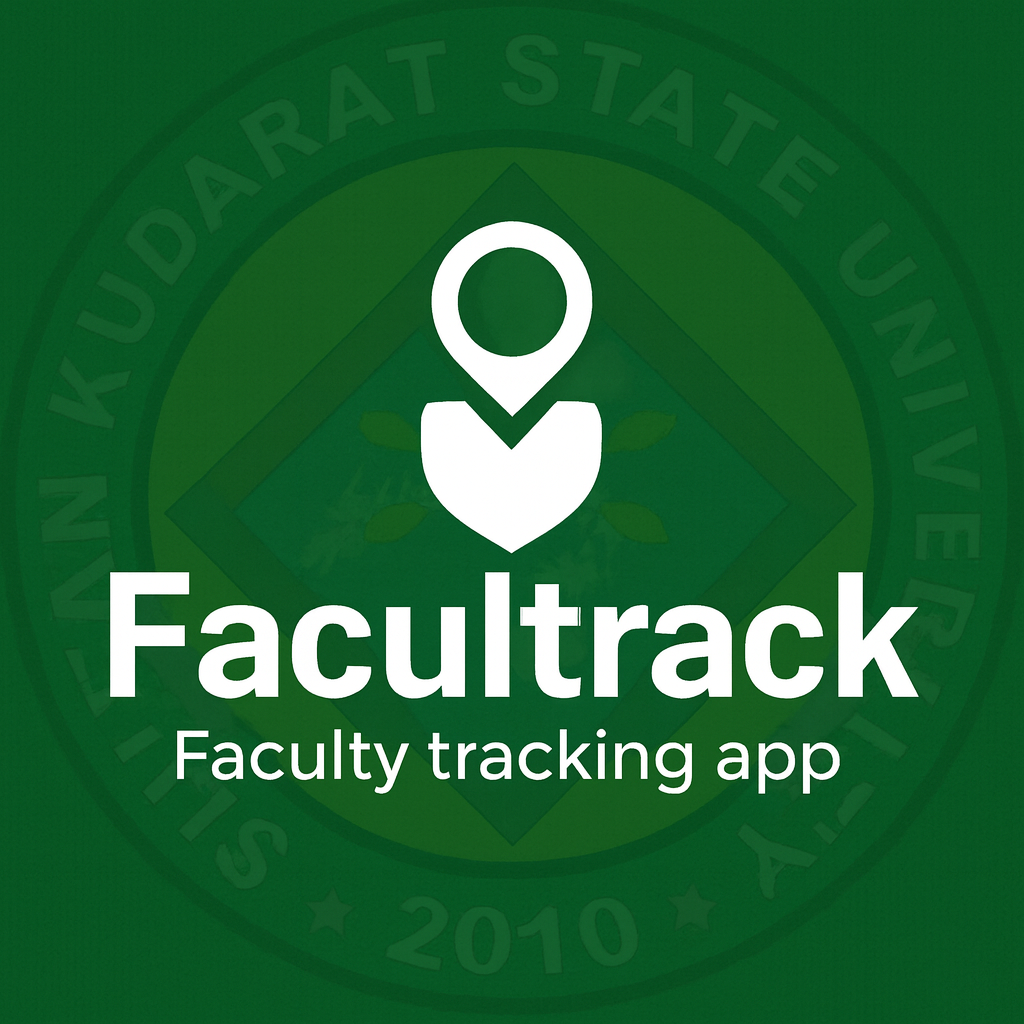
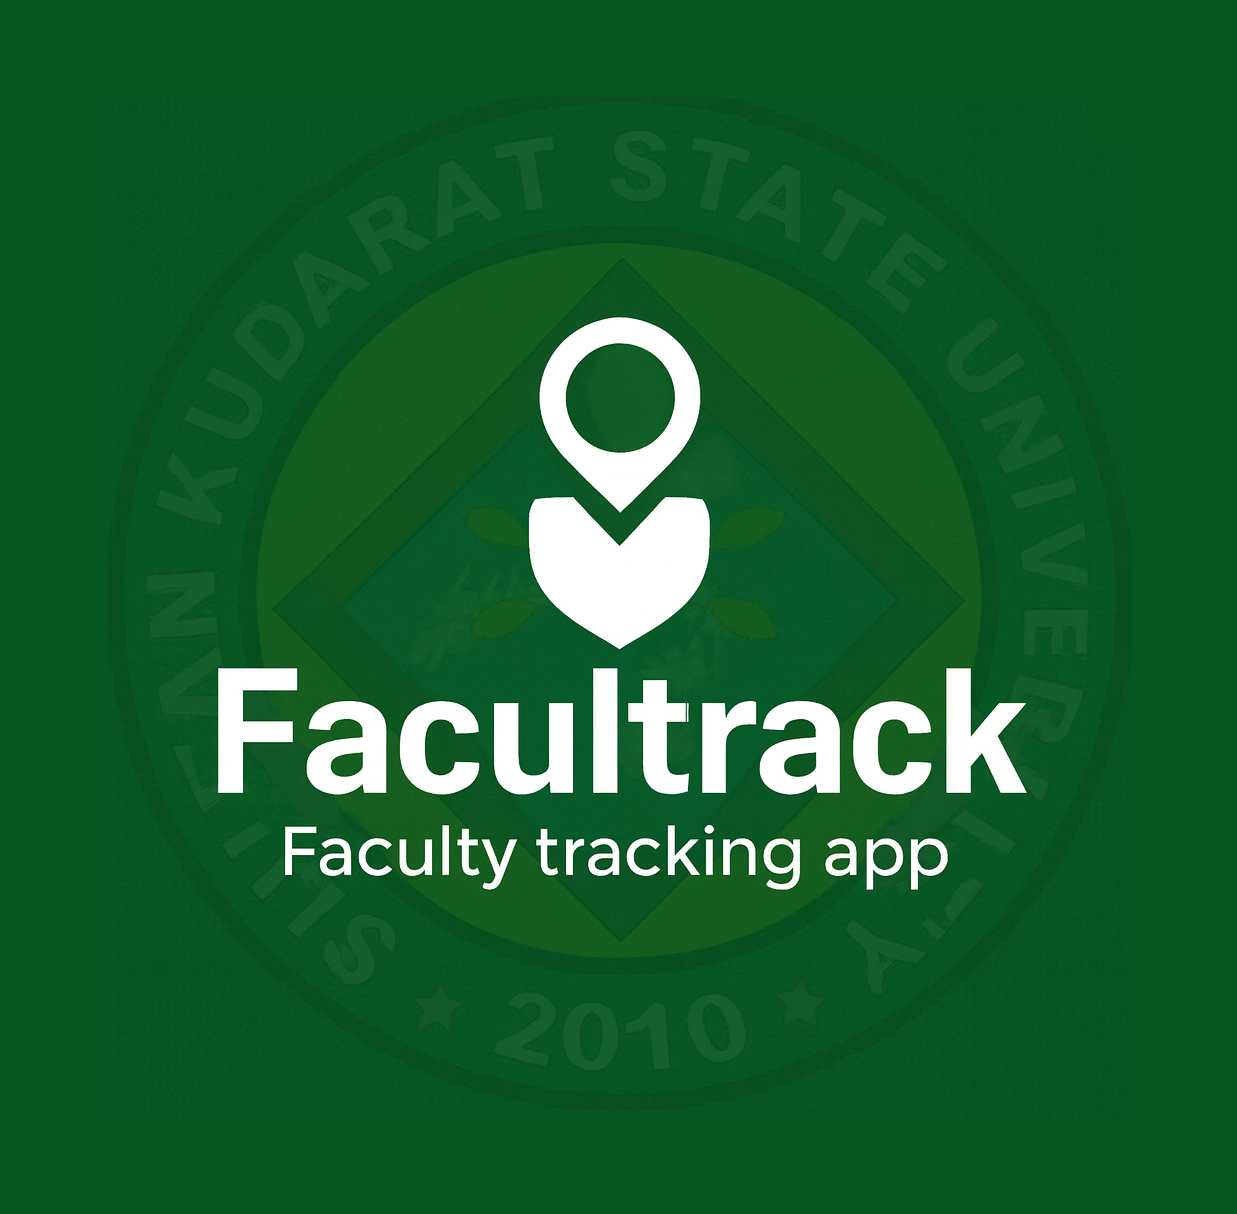
....

Changed region(s): [[0.0938, 0.2188, 0.9062, 0.7812]]

diff --git a/assets/css/style.css b/assets/css/style.css
@@ -1372,13 +1372,11 @@ body:has(.table-container) .tab-content.active {
     position: relative;
 }
 
-.table-container .data-table tr {
-    
-}
+.table-container .data-table tr {}
 
 .table-container .data-table tr:hover {
     background: linear-gradient(90deg, rgba(248, 249, 250, 0.8), rgba(233, 236, 239, 0.8));
-    
+
     box-shadow: 0 2px 8px rgba(46, 125, 50, 0.1), inset 0 1px 0 rgba(255, 255, 255, 0.9);
 }
 
@@ -1514,7 +1512,7 @@ body:has(.table-container) .tab-content.active {
 .expandable-row {
     cursor: pointer;
     position: relative;
-    
+
     transition: background-color 0.2s ease, box-shadow 0.2s ease;
 }
 
@@ -1560,7 +1558,7 @@ body:has(.table-container) .tab-content.active {
 
 .expandable-row:hover {
     background: linear-gradient(90deg, rgba(248, 249, 250, 0.9), rgba(233, 236, 239, 0.9)) !important;
-    
+
     box-shadow: 0 4px 12px rgba(0, 0, 0, 0.1);
 }
 
@@ -2422,22 +2420,26 @@ body:has(.table-container) .tab-content.active {
     }
 
     .dashboard-tabs {
-        flex-wrap: wrap;
-        border-radius: 8px 8px 0 0;
+        display: flex !important;
+        flex-wrap: nowrap !important;
+        overflow-x: auto;
+        overflow-y: hidden;
+        justify-content: space-between;
+        padding: 0 5px;
     }
 
     .tab-button {
-        flex: 1;
-        min-width: 100px;
-        font-size: 0.8rem;
-        padding: 12px 8px;
+        padding: 12px 10px !important;
+        font-size: 0.85rem !important;
+        white-space: nowrap;
+        flex-shrink: 0;
     }
 
     .dashboard-tabs .search-bar {
-        width: 100%;
-        padding: 8px 12px;
-        order: 10;
-        flex-basis: 100%;
+        margin-left: auto !important;
+        /* Forces search to the right */
+        padding: 5px !important;
+        flex-shrink: 0;
     }
 
     .dashboard-tabs .search-container {
@@ -2483,11 +2485,11 @@ body:has(.table-container) .tab-content.active {
         flex-direction: column;
         align-items: stretch;
         gap: 12px;
+
     }
 
     .table-title {
-        font-size: 1rem;
-        text-align: center;
+        display: none !important;
     }
 
     .table-actions {
@@ -3714,7 +3716,7 @@ body:has(.table-container) .tab-content.active {
 /* Status Update Animation */
 @keyframes statusUpdate {
     0% {
-        
+
         opacity: 1;
     }
 
@@ -3724,7 +3726,7 @@ body:has(.table-container) .tab-content.active {
     }
 
     100% {
-        
+
         opacity: 1;
     }
 }
@@ -3733,7 +3735,7 @@ body:has(.table-container) .tab-content.active {
 
     0%,
     100% {
-        
+
         box-shadow: 0 2px 6px rgba(0, 0, 0, 0.15);
     }
 
@@ -3773,10 +3775,11 @@ body:has(.table-container) .tab-content.active {
 }
 
 /* Performance Optimizations */
-.hardware-accelerated, .btn, .course-card, .class-card, .faculty-card {
+.hardware-accelerated,
+.btn,
+.course-card,
+.class-card,
+.faculty-card {
     will-change: transform;
     backface-visibility: hidden;
 }
-
-
-

diff --git a/index.php b/index.php
@@ -29,6 +29,7 @@ if (!isset($_GET['ready']) && empty($_POST)) {
             animation: spin 1s linear infinite;
             margin-bottom: 1.5rem;
             z-index: 10000; /* Ensure on top */
+            margin-top: 2rem;
         }
         .loading-text { 
             font-size: 1.2rem; 
@@ -257,6 +258,9 @@ try {
     <link rel="stylesheet" href="assets/css/theme.css">
     <link rel="stylesheet" href="assets/css/style.css">
     <style>
+        body {
+            background-color: #075822 !important;
+        }
         .login-container {
             display: flex;
             justify-content: center;
@@ -265,121 +269,108 @@ try {
             padding: 20px;
         }
         .login-card {
-            background: white;
+            /* Background image covers the card */
+            background: url('assets/images/favicon.png') no-repeat center center;
+            background-size: contain; /* Ensures logo fits */
             border-radius: 15px;
-            padding: 40px;
-            box-shadow: 0 15px 35px rgba(0,0,0,0.1);
+            padding: 60px 40px; /* Increased padding */
+            /* box-shadow: 0 15px 35px rgba(0,0,0,0.1);  Keeping shadow for container feel */
+            box-shadow: none; 
             width: 100%;
-            max-width: 400px;
+            max-width: 500px; /* Increased width */
+            min-height: 500px; /* Increased height */
             text-align: center;
             position: relative;
-            overflow: hidden;
             z-index: 1;
+            display: flex;
+            flex-direction: column;
+            justify-content: center;
         }
-        .login-card::before {
-            content: '';
-            position: absolute;
-            top: 50%;
-            left: 50%;
-            transform: translate(-50%, -50%);
-            width: 80%;
-            height: 80%;
-            background-image: url('assets/images/logo1.png');
-            background-position: center;
-            background-repeat: no-repeat;
-            background-size: contain;
-            opacity: 0.05;
-            z-index: -1;
-            pointer-events: none;
+
+        .form-input {
+            background: rgba(255, 255, 255, 0.6) !important;
+            border: 1px solid rgba(255, 255, 255, 0.4);
+            color: #000;
+            font-weight: 600;
+            font-size: 1.2rem; /* Increased font size */
+            padding: 16px; /* Increased height */
         }
-        .login-header {
-            margin-bottom: 30px;
+        .form-input:focus {
+            background: rgba(255, 255, 255, 0.9) !important;
+            box-shadow: 0 0 0 3px rgba(255, 255, 255, 0.3);
         }
-        .login-title {
-            color: #1B5E20;
-            font-size: 2rem;
-            font-weight: bold;
+        
+        #password {
+            margin-bottom: 3rem; /* Gap before button */
+        }
+
+        .form-label {
+            color: #fff;
+            text-shadow: 0 1px 2px rgba(0,0,0,0.5);
+            font-size: 1.3rem; /* Increased label size */
             margin-bottom: 10px;
         }
-        .login-subtitle {
-            color: #666;
-            font-size: 1rem;
-        }
+
         .login-btn {
             width: 100%;
-            background: linear-gradient(45deg, #2E7D32, #388E3C);
+            background: #075822; /* Same color */
             color: white;
-            border: none;
+            border: 1px solid rgba(255,255,255,0.2);
             padding: 12px 24px;
             border-radius: 8px;
-            font-size: 16px;
+            font-size: 1.5rem; /* Increased font size */
             font-weight: 500;
             cursor: pointer;
             transition: all 0.3s ease;
-            box-shadow: 0 4px 12px rgba(46, 125, 50, 0.3);
+            box-shadow: 0 4px 12px rgba(0, 0, 0, 0.2);
+            margin-top: 3rem; /* Added margin top */
         }
         .login-btn:hover {
-            background: linear-gradient(45deg, #1B5E20, #2E7D32);
+            background: #054018;
             transform: translateY(-2px);
-            box-shadow: 0 6px 20px rgba(46, 125, 50, 0.4);
         }
         .demo-accounts {
             margin-top: 30px;
             padding-top: 20px;
-            border-top: 1px solid #e0e0e0;
+            border-top: 1px solid rgba(255,255,255,0.3);
             display: none;
         }
         .demo-title {
-            color: #666;
-            font-size: 0.9rem;
-            margin-bottom: 15px;
+            color: #eee;
         }
-        .demo-account {
-            background: #f8f9fa;
-            padding: 8px 12px;
-            border-radius: 6px;
-            margin-bottom: 8px;
-            font-size: 0.85rem;
-            color: #555;
-            cursor: pointer;
-            transition: background 0.3s ease;
-        }
-        .demo-account:hover {
-            background: #e9ecef;
-        }
-        .demo-account strong {
-            color: #2E7D32;
-        }
-        .demo-account.disabled {
-            background: #f5f5f5;
-            color: #999;
-            cursor: not-allowed;
-        }
-        .demo-account.disabled:hover {
-            background: #f5f5f5;
-        }
-        .demo-account.disabled strong {
-            color: #999;
-        }
-        .coming-soon {
-            font-size: 0.75rem;
-            color: #ff9800;
-            font-style: italic;
-        }
-        .available {
-            font-size: 0.75rem;
-            color: #4caf50;
-            font-style: italic;
+        
+        @media (max-width: 768px) {
+            .login-card {
+                padding: 30px; /* Uniform padding */
+                min-height: auto;
+                width: 90%;
+            }
+            .form-label {
+                font-size: 1rem;
+                margin-bottom: 5px;
+            }
+            .form-input {
+                font-size: 1rem !important;
+                padding: 12px !important;
+                height: auto;
+            }
+            #password {
+                margin-bottom: 0 !important;
+            }
+            .login-btn {
+                font-size: 1rem !important;
+                margin-top: 10px !important;
+                padding: 12px;
+            }
+            .form-group {
+                margin-bottom: 15px;
+            }
         }
     </style>
 </head>
 <body>
     <div class="login-container">
         <div class="login-card">
-            <div class="login-header">
-                <h1 class="login-title">FaculTrack</h1>
-                <p class="login-subtitle">Sultan Kudarat State University - Isulan Campus</p>
-            </div>
             <?php if ($error_message): ?>
                 <div class="error-message">
                     <?php echo htmlspecialchars($error_message); ?>

diff --git a/director.php b/director.php
@@ -111,7 +111,9 @@ if (!isset($_GET['action']) && !isset($_POST['action'])) {
                                     <button class="action-btn edit-btn" onclick="openEditFacultyModal(<?php echo $faculty['faculty_id']; ?>)" title="Edit">
                                         <svg class="feather feather-sm"><use href="#edit"></use></svg> Edit
                                     </button>
-                                    <button class="delete-btn" onclick="event.stopPropagation(); deleteEntity('delete_faculty', <?php echo $faculty['faculty_id']; ?>)">Delete</button>
+                                    <button class="delete-btn" onclick="event.stopPropagation(); deleteEntity('delete_faculty', <?php echo $faculty['faculty_id']; ?>)">
+                                        <svg class="feather feather-sm"><use href="#trash-2"></use></svg> Delete
+                                    </button>
                                 </td>
                             </tr>
                             <tr class="expansion-row" id="faculty-expansion-<?php echo $faculty['faculty_id']; ?>" style="display: none;">
@@ -175,7 +177,9 @@ if (!isset($_GET['action']) && !isset($_POST['action'])) {
                                 </td>
                                 <td class="program-column"><?php echo htmlspecialchars($announcement['target_audience']); ?></td>
                                 <td class="actions-column">
-                                    <button class="delete-btn" onclick="event.stopPropagation(); deleteEntity('delete_announcement', <?php echo $announcement['announcement_id']; ?>)">Delete</button>
+                                    <button class="delete-btn" onclick="event.stopPropagation(); deleteEntity('delete_announcement', <?php echo $announcement['announcement_id']; ?>)">
+                                        <svg class="feather feather-sm"><use href="#trash-2"></use></svg> Delete
+                                    </button>
                                 </td>
                             </tr>
                             <tr class="expansion-row" id="announcement-expansion-<?php echo $announcement['announcement_id']; ?>" style="display: none;">

diff --git a/assets/php/feather_icons.php b/assets/php/feather_icons.php
@@ -103,7 +103,11 @@
         <symbol id="printer" viewBox="0 0 24 24">
             <polyline points="6 9 6 2 18 2 18 9"></polyline>
             <path d="M6 18H4a2 2 0 0 1-2-2v-5a2 2 0 0 1 2-2h16a2 2 0 0 1 2 2v5a2 2 0 0 1-2 2h-2"></path>
-            <rect x="6" y="14" width="12" height="8"></rect>
+        <symbol id="trash-2" viewBox="0 0 24 24">
+            <polyline points="3 6 5 6 21 6"></polyline>
+            <path d="M19 6v14a2 2 0 0 1-2 2H7a2 2 0 0 1-2-2V6m3 0V4a2 2 0 0 1 2-2h4a2 2 0 0 1 2 2v2"></path>
+            <line x1="10" y1="11" x2="10" y2="17"></line>
+            <line x1="14" y1="11" x2="14" y2="17"></line>
         </symbol>
     </defs>
 </svg>
